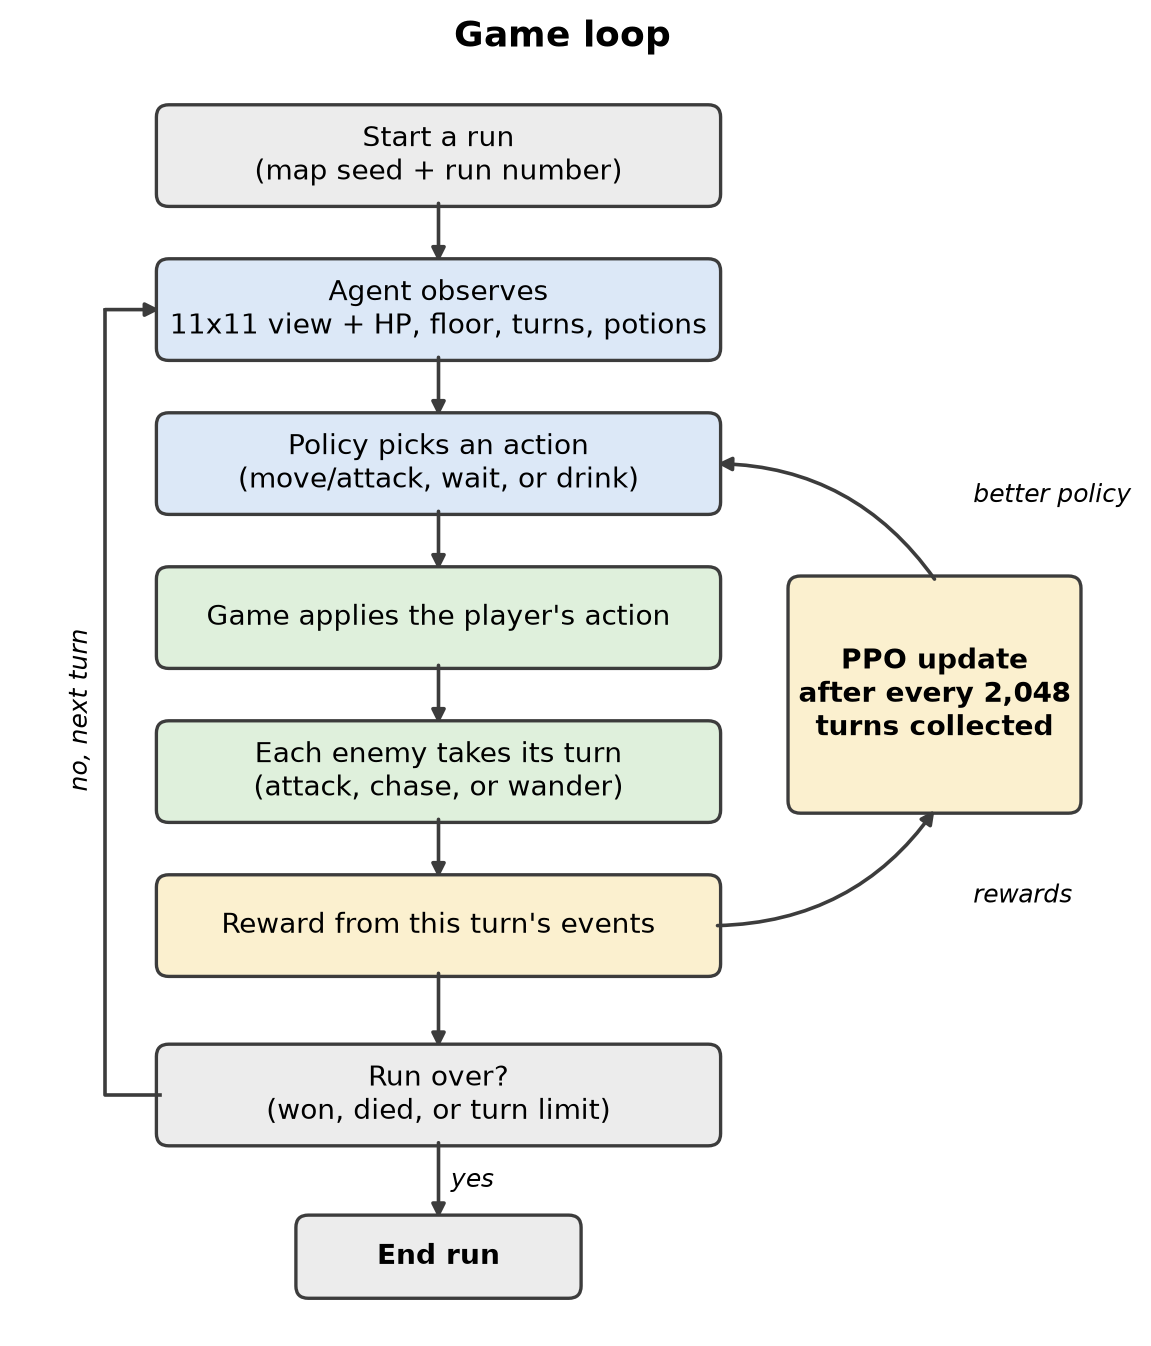
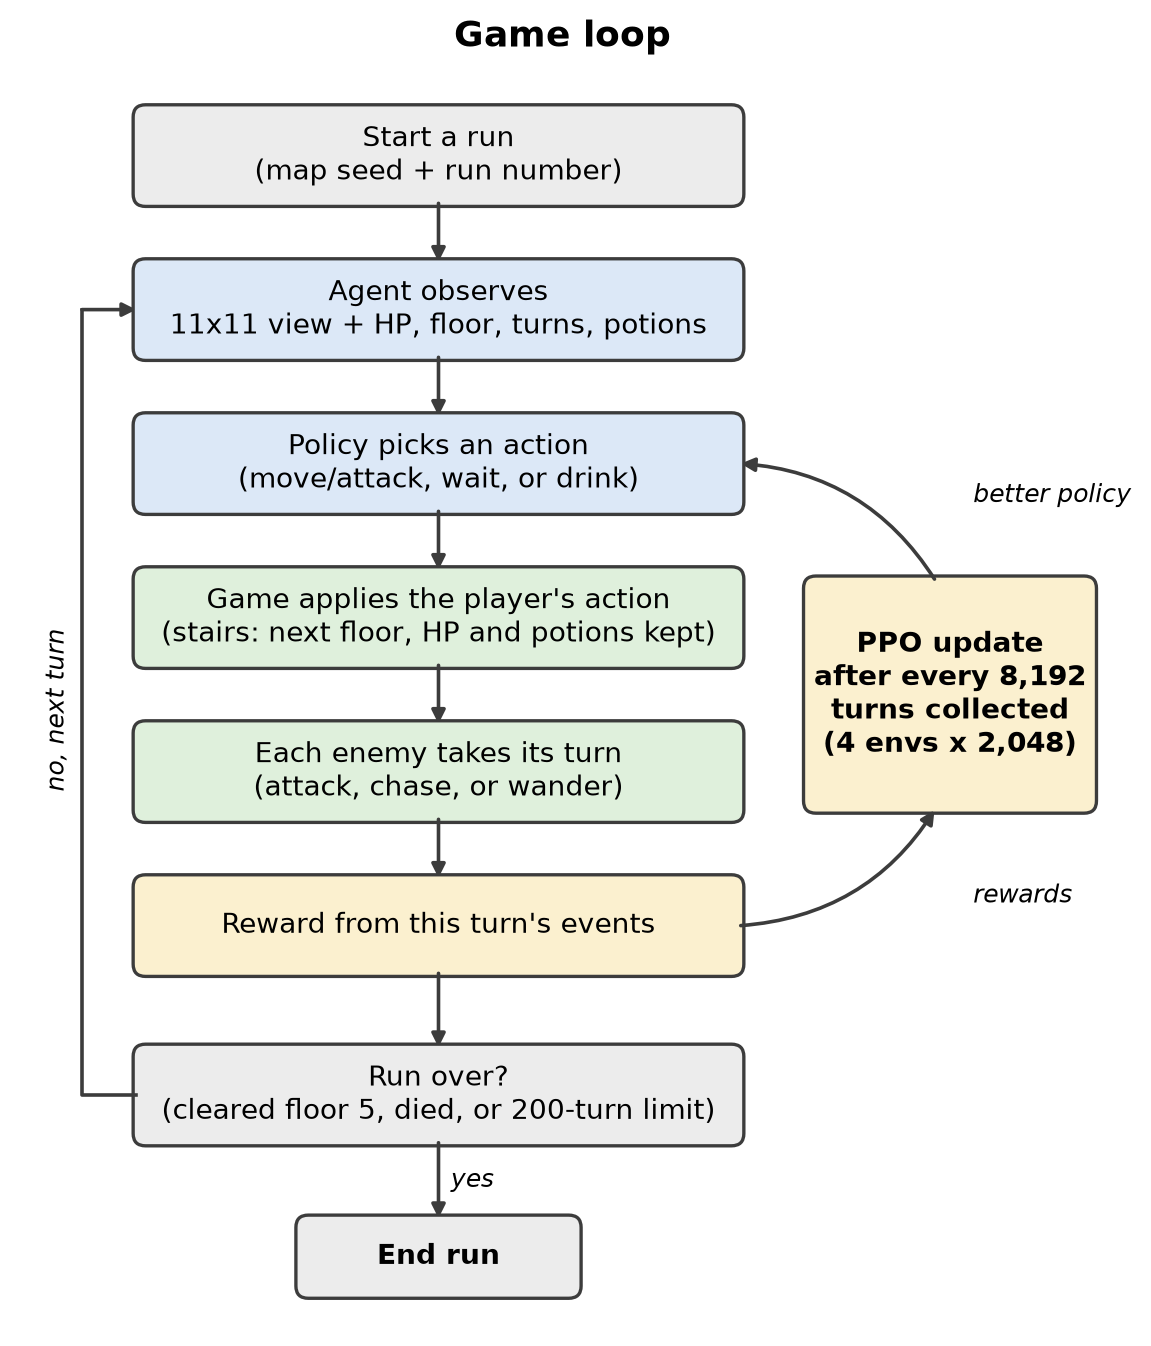
update report diagrams for 5 floors, 141 human runs, and 4-env ppo updates

diff --git a/docs/make_diagrams.py b/docs/make_diagrams.py
@@ -45,15 +45,15 @@ def game_loop():
     ax.set_ylim(0, 8.2)
     ax.axis("off")
 
-    x, w, h = 2.7, 3.6, 0.62
+    x, w, h = 2.7, 3.9, 0.62
     steps = [
         (7.6, "Start a run\n(map seed + run number)", GRAY),
         (6.6, "Agent observes\n11x11 view + HP, floor, turns, potions", BLUE),
         (5.6, "Policy picks an action\n(move/attack, wait, or drink)", BLUE),
-        (4.6, "Game applies the player's action", GREEN),
+        (4.6, "Game applies the player's action\n(stairs: next floor, HP and potions kept)", GREEN),
         (3.6, "Each enemy takes its turn\n(attack, chase, or wander)", GREEN),
         (2.6, "Reward from this turn's events", YELLOW),
-        (1.5, "Run over?\n(won, died, or turn limit)", GRAY),
+        (1.5, "Run over?\n(cleared floor 5, died, or 200-turn limit)", GRAY),
     ]
     for y, text, color in steps:
         box(ax, x, y, w, h, text, color)
@@ -71,7 +71,7 @@ def game_loop():
             style="italic")
 
     # where learning happens
-    box(ax, 5.9, 4.1, 1.85, 1.5, "PPO update\nafter every 2,048\nturns collected", YELLOW, bold=True)
+    box(ax, 6.0, 4.1, 1.85, 1.5, "PPO update\nafter every 8,192\nturns collected\n(4 envs x 2,048)", YELLOW, bold=True)
     arrow(ax, (x + w / 2, 2.6), (5.9, 4.1 - 0.75), curve=0.25)
     arrow(ax, (5.9, 4.1 + 0.75), (x + w / 2, 5.6), curve=0.25)
     ax.text(6.15, 2.75, "rewards", fontsize=9, style="italic")
@@ -90,13 +90,13 @@ def workflow():
 
     stages = [
         (1.0, "1. Game", GREEN,
-         "Seeded dungeon\ngenerator\n\nRules: enemies,\npotions, stairs,\nturn limit\n\nGymnasium env\n(11x11 view)"),
+         "Seeded dungeon\ngenerator\n\n5 floors per run,\nenemies, potions,\n200-turn limit\n\nGymnasium env\n(11x11 view)"),
         (3.0, "2. Data", GRAY,
-         "Training maps:\nseeds 0-9,999\n\nTest maps:\nseeds 1,000,000+\n\n101 human runs\nx8 by rotate/flip"),
+         "Training maps:\nseeds 0-9,999\n\nTest maps:\nseeds 1,000,000+\n\n141 human runs\nx8 by rotate/flip"),
         (5.0, "3. Agents", BLUE,
          "Random\n\nScripted bot\n\nImitation\n(copies human runs)\n\nPPO (sparse and\nshaped reward)"),
         (7.0, "4. Training", YELLOW,
-         "Stable-Baselines3\nPPO\n\nreward.py with\nexplore decay\n\nCheckpoints\nduring training"),
+         "Stable-Baselines3\nPPO, 4 envs\n\nShaped reward:\nexplore bonus\ndecays to 0\n\nCheckpoints\nevery 50k steps"),
         (9.0, "5. Evaluation", GRAY,
          "100 test maps\nx 5 runs each\n\nWin rate, floors,\nturns, damage\n\nLearning curves\nand replays"),
     ]
@@ -106,7 +106,7 @@ def workflow():
     for (x1, *_), (x2, *_) in zip(stages, stages[1:]):
         arrow(ax, (x1 + 0.875, 4.45), (x2 - 0.875, 4.45))
 
-    ax.text(5.0, 0.75, "Tools: Python, Gymnasium, pygame, Stable-Baselines3 (PyTorch), NumPy, Matplotlib, pytest",
+    ax.text(5.0, 0.75, "Tools: Python, Gymnasium, pygame-ce, Stable-Baselines3 (PyTorch), NumPy, Matplotlib, pytest",
             ha="center", fontsize=9.5)
     ax.set_title("Project workflow", fontsize=13, weight="bold")
     return fig
